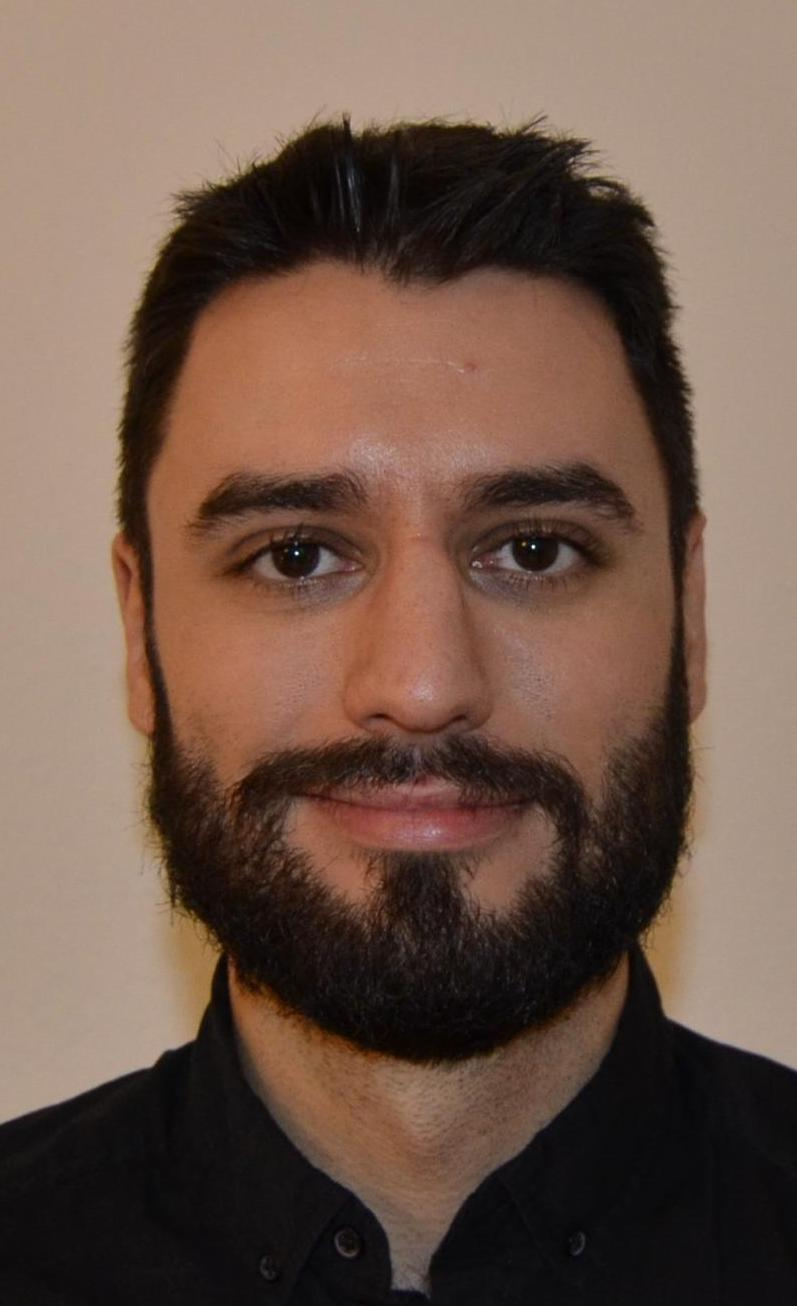
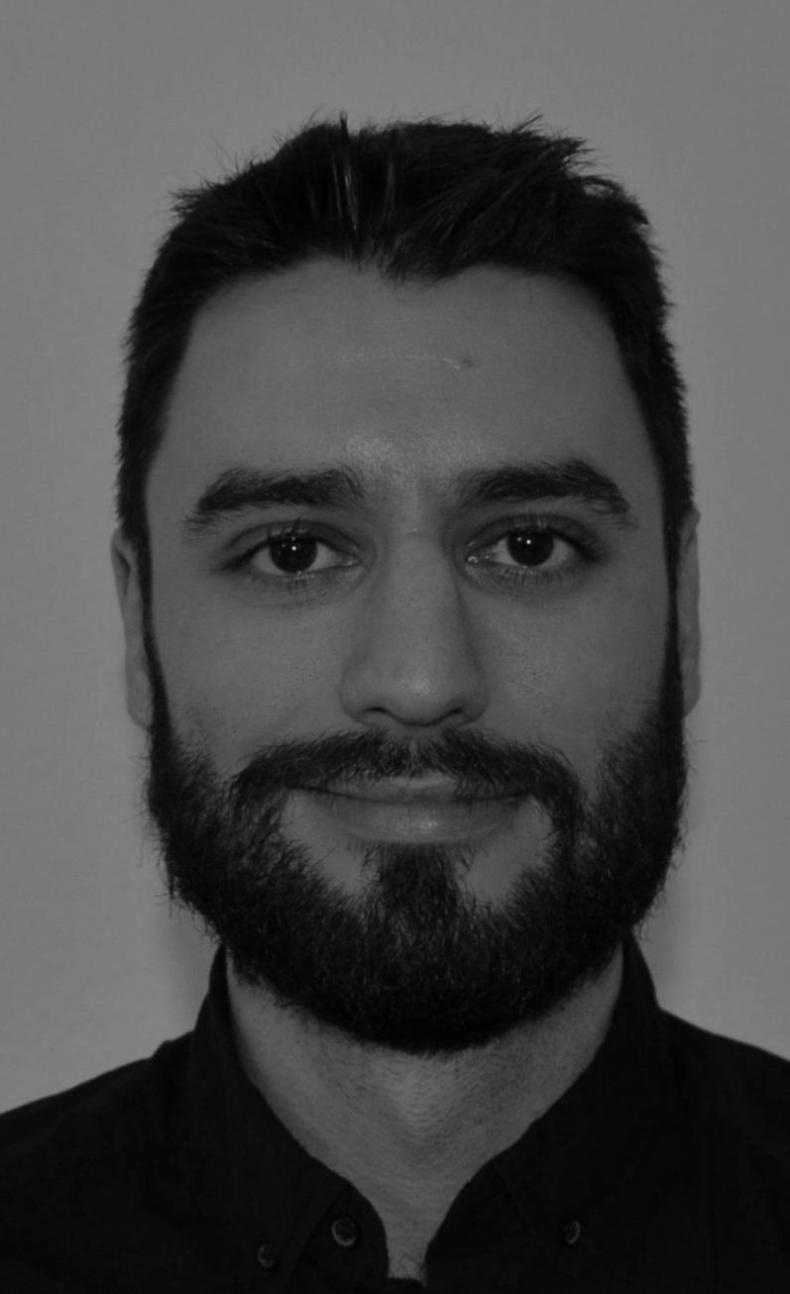
profil b&w

diff --git a/content/index.md b/content/index.md
@@ -8,7 +8,7 @@ type: index
 
 
 <div style="float: left;margin: 0px 80px 50px 0px">
-    <img src="/img/profile.jpg" width="213" height="213"/>
+    <img src="/img/profile.jpg" width="395" height="647"/>
 </div>
 
 Hi! My name is Bruno Rodrigues, and I'm a research assistant at the research division of [STATEC](http://www.statistiques.public.lu/en/actors/statec/organisation/red/index.html).
